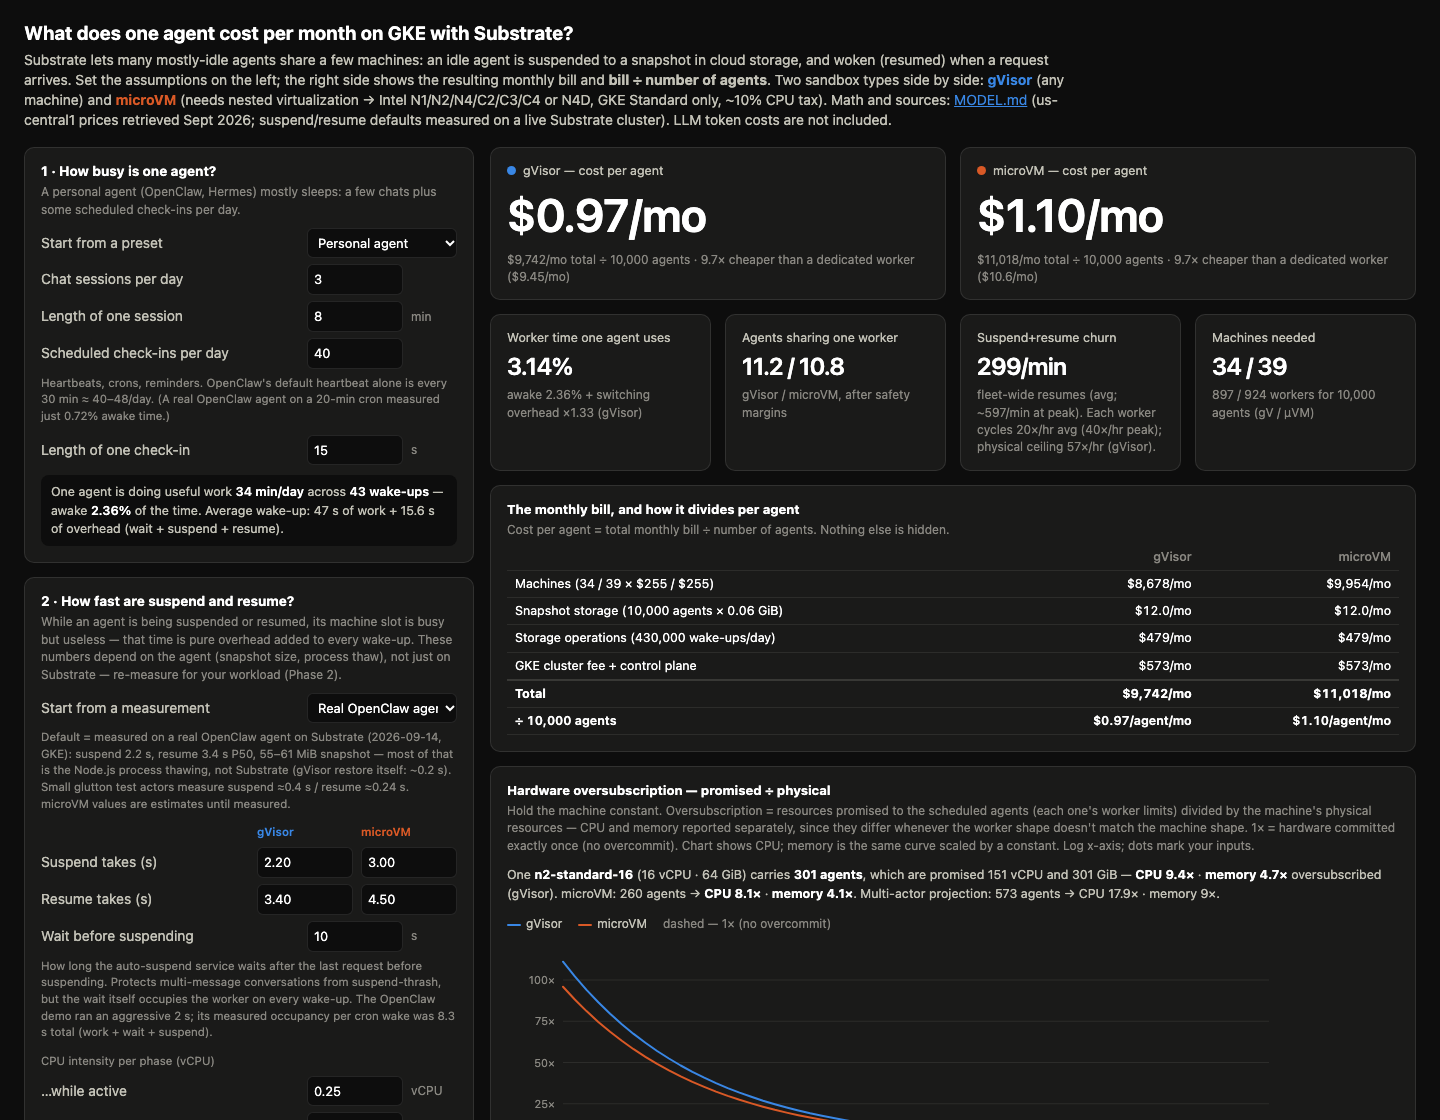
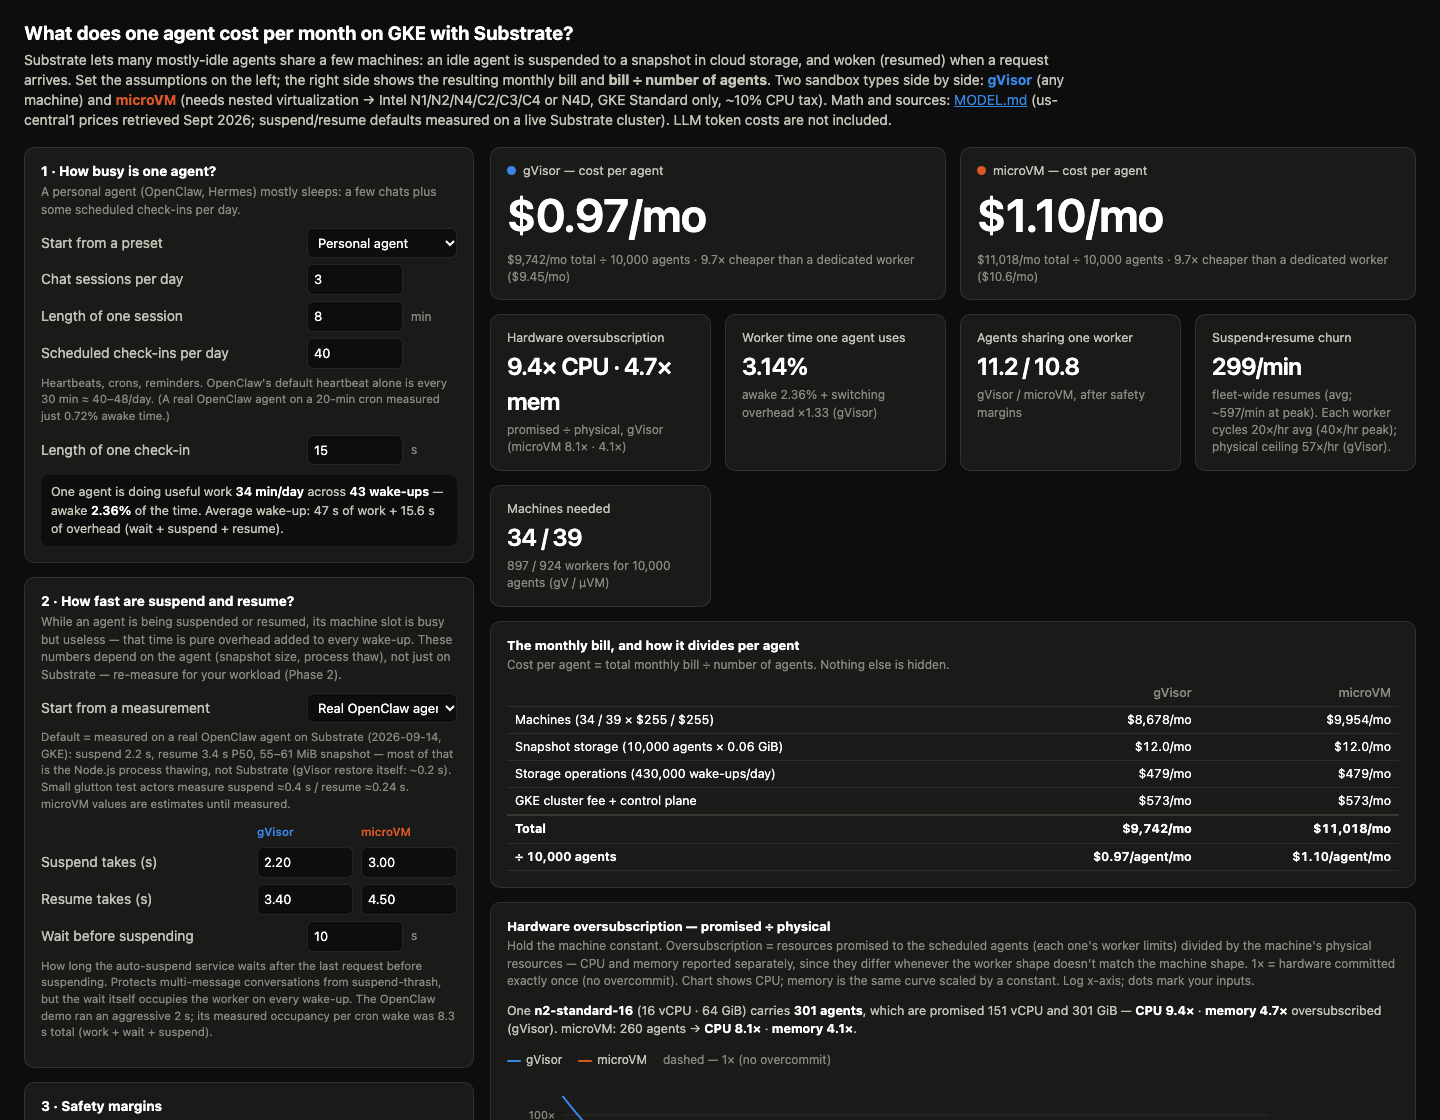
Oversubscription as a top-level number; drop all projections from calculator
- New first tile right under the cost heroes: 'Hardware oversubscription
  9.4x CPU · 4.7x mem — promised ÷ physical' (gVisor, with microVM inline),
  always for the current settings.
- Removed every theoretical-projection surface from the calculator: the
  'Roadmap upside: multi-actor workers' card, the levers bar, the headline
  sentence, the two detail rows, the scenario() projection math, and the
  now-orphaned per-phase CPU inputs. The multi-actor projection remains
  only in the Phase 2 measured-run report (clearly labeled) and MODEL.md
  §3b, which now states the calculator intentionally shows only
  current-settings numbers. README ballpark/bullets updated; calculator
  screenshot refreshed.

diff --git a/calculator.html b/calculator.html
@@ -151,11 +151,6 @@
     <div class="duo"><label>Resume takes (s)</label><input id="g_tr" type="number" min="0" step="0.05" value="3.40"><input id="m_tr" type="number" min="0" step="0.05" value="4.50"></div>
     <div class="row"><label for="tidle">Wait before suspending</label><input id="tidle" type="number" min="0" step="1" value="10"><span class="unit">s</span>
       <div class="hint">How long the auto-suspend service waits after the last request before suspending. Protects multi-message conversations from suspend-thrash, but the wait itself occupies the worker on every wake-up. The OpenClaw demo ran an aggressive 2 s; its measured occupancy per cron wake was 8.3 s total (work + wait + suspend).</div></div>
-    <div class="duo-head"><span>CPU intensity per phase (vCPU)</span><span></span><span></span></div>
-    <div class="row"><label for="cpuAct">…while active</label><input id="cpuAct" type="number" min="0.05" step="0.05" value="0.25"><span class="unit">vCPU</span></div>
-    <div class="row"><label for="cpuSus">…while suspending</label><input id="cpuSus" type="number" min="0.05" step="0.05" value="0.30"><span class="unit">vCPU</span></div>
-    <div class="row"><label for="cpuRes">…while restoring</label><input id="cpuRes" type="number" min="0.05" step="0.05" value="1.22"><span class="unit">vCPU</span>
-      <div class="hint">Restore (zstd decompress + page-in) is the most CPU-intensive thing an agent does — measured in the GKE Agent Runtime Benchmark. These weights don't change today's one-agent-per-worker cost; they power the multi-actor projection below.</div></div>
   </div>
 
   <div class="card">
@@ -233,6 +228,7 @@
     </div>
   </div>
   <div class="kpis" style="margin-top:14px">
+    <div class="tile"><div class="lbl">Hardware oversubscription</div><div class="val" id="k_oversub" style="font-size:24px">–</div><div class="sub" id="k_oversubSub"></div></div>
     <div class="tile"><div class="lbl">Worker time one agent uses</div><div class="val" id="k_duty" style="font-size:24px">–</div><div class="sub" id="k_dutySub"></div></div>
     <div class="tile"><div class="lbl">Agents sharing one worker</div><div class="val" id="k_over" style="font-size:24px">–</div><div class="sub" id="k_overSub">gVisor / microVM, after safety margins</div></div>
     <div class="tile"><div class="lbl">Suspend+resume churn</div><div class="val" id="k_churn" style="font-size:24px">–</div><div class="sub" id="k_churnSub"></div></div>
@@ -255,12 +251,6 @@
     <h3 style="margin-top:14px">Which knobs buy more agents (same machine)</h3>
     <p class="sub">Each bar re-runs the model with one knob moved to its friendlier setting, everything else as configured. gVisor scenario, agents per <span id="osMachine"></span>.</p>
     <svg id="lever_chart" width="100%" height="200" role="img" aria-label="Agents per machine by lever"></svg>
-  </div>
-
-  <div class="card">
-    <h3 style="font-size:13px;margin:0 0 2px">Roadmap upside: multi-actor workers</h3>
-    <p class="subtitle">Substrate today runs one live agent per worker slot. Multi-actor workers (the platform's roadmap lever) would pack agents by CPU instead — suspended agents hold no RAM, and each phase is charged its measured CPU (restore is the peak). A projection, not today's price.</p>
-    <p class="anchors" id="maLine"></p>
   </div>
 
   <div class="card chart-card">
@@ -453,19 +443,6 @@ function scenario(p, w) {
   const cyclesPerWorkerHr = w.acts*fleet/(workers*24);
   const ceilingPerWorkerHr = 3600/(w.liveSec/Math.max(w.acts,1e-9) + over);
 
-  // Multi-actor projection (roadmap): agents pack by fungible CPU instead
-  // of one-per-worker slots; suspended agents hold no RAM. Per-phase CPU
-  // weights from the GKE Agent Runtime Benchmark; restore is the peak.
-  const cpuAvg = (w.liveSec*num("cpuAct") + w.acts*(p.ts*num("cpuSus") + p.tr*num("cpuRes")))/86400;
-  const blendCpu = herdMode ? H*num("cpuRes") + (1-H)*cpuAvg : cpuAvg*num("peak");
-  const activeFrac = herdMode ? H + (1-H)*dEff : dEff*num("peak");
-  const maByCpu = allocCpu/Math.max(blendCpu, 1e-9);
-  const maByMem = allocMem/Math.max(p.wmem*activeFrac, 1e-9);
-  const maMemBound = maByMem < maByCpu;
-  const maPerNode = Math.max(1, Math.floor(Math.min(maByCpu, maByMem)*num("util")));
-  const maNodes = Math.ceil(fleet/maPerNode);
-  const maPerAgent = (maNodes*nodeMo + snapshotsMo + opsMo + fixedMo)/fleet;
-
   // Hardware oversubscription: resources PROMISED to the scheduled agents
   // (each agent's worker limits) versus the machine's PHYSICAL resources.
   // Slot-design-independent: multi-actor changes the agent count, not the
@@ -476,7 +453,6 @@ function scenario(p, w) {
 
   return {dEff, N, nTime, nChurn, capBinds, herdMode, peakFactor, wpn, nodeHr, nodeMo, workerHr, workers, nodes,
           agentsPerMachine, cpuOver, memOver, machineCpu: s.cpu, machineGib: s.gib,
-          maPerNode, maMemBound, maPerAgent,
           machinesMo, snapshotsMo, opsMo, fixedMo, totalMo, perAgent,
           compute: machinesMo/fleet, storage: snapshotsMo/fleet,
           opsPerAgent: opsMo/fleet, fixedPerAgent: fixedMo/fleet,
@@ -718,7 +694,6 @@ function leverRows(pG, w, G) {
     add("De-align the crons (herd 25% → 5%)", {herd: 5});
   }
   if (num("util") < 0.85) add("Run workers hotter (utilization 0.85)", {util: 0.85});
-  rows.push({label: "Multi-actor workers (roadmap projection)", val: G.maPerNode, proj: true});
   return rows;
 }
 
@@ -786,6 +761,8 @@ function recompute() {
   $("m_hero").textContent = fmt$(M.perAgent)+"/mo";
   $("m_heroSub").textContent = `${fmt$(M.totalMo)}/mo total ÷ ${fmt(fleet,0)} agents · ${fmt(M.dedicated/M.perAgent,1)}× cheaper than a dedicated worker (${fmt$(M.dedicated)}/mo)`;
 
+  $("k_oversub").textContent = `${fmt(G.cpuOver,1)}× CPU · ${fmt(G.memOver,1)}× mem`;
+  $("k_oversubSub").textContent = `promised ÷ physical, gVisor (microVM ${fmt(M.cpuOver,1)}× · ${fmt(M.memOver,1)}×)`;
   $("k_duty").textContent = pct(G.dEff);
   $("k_dutySub").textContent = `awake ${pct(w.duty)} + switching overhead ×${fmt(G.dEff/Math.max(w.duty,1e-9),2)} (gVisor)`;
   $("k_over").textContent = `${fmt(G.N,1)} / ${fmt(M.N,1)}`;
@@ -848,13 +825,6 @@ function recompute() {
     {cls:"em", cells:[`÷ ${fmt(fleet,0)} agents`, fmt$(G.perAgent)+"/agent/mo", fmt$(M.perAgent)+"/agent/mo"]},
   ]);
 
-  const maVerdict = G.maPerAgent < G.perAgent
-    ? `a further <b>${fmt(G.perAgent/Math.max(G.maPerAgent,1e-9),1)}× / ${fmt(M.perAgent/Math.max(M.maPerAgent,1e-9),1)}×</b> below today's slot-based cost.`
-    : `<b>no upside at these settings</b> — a herd member is charged the restore peak (${num("cpuRes")} vCPU), heavier than today's ${num("g_wcpu")}-vCPU slot; shrink the herd or the restore CPU to see the packing win.`;
-  $("maLine").innerHTML =
-    `gVisor: <b>${fmt$(G.maPerAgent)}/agent/mo</b> at ${fmt(G.maPerNode,0)} agents per machine${G.maMemBound ? " (memory-bound)" : ""} ·
-     microVM: <b>${fmt$(M.maPerAgent)}/agent/mo</b> at ${fmt(M.maPerNode,0)} per machine${M.maMemBound ? " (memory-bound)" : ""} — ${maVerdict}`;
-
   breakdownChart($("bd_chart"), [
     {label:"gVisor", res:G},
     {label:"microVM", res:M},
@@ -868,8 +838,7 @@ function recompute() {
     `One <b>${pG.shape}</b> (${G.machineCpu} vCPU · ${G.machineGib} GiB) carries <b>${fmt(G.agentsPerMachine,0)} agents</b>,
      which are promised ${fmt(G.agentsPerMachine*pG.wcpu,0)} vCPU and ${fmt(G.agentsPerMachine*pG.wmem,0)} GiB —
      <b>CPU ${fmt(G.cpuOver,1)}×</b> · <b>memory ${fmt(G.memOver,1)}×</b> oversubscribed (gVisor).
-     microVM: ${fmt(M.agentsPerMachine,0)} agents → <b>CPU ${fmt(M.cpuOver,1)}×</b> · <b>memory ${fmt(M.memOver,1)}×</b>.
-     Multi-actor projection: ${fmt(G.maPerNode,0)} agents → CPU ${fmt(G.maPerNode*pG.wcpu/G.machineCpu,1)}× · memory ${fmt(G.maPerNode*pG.wmem/G.machineGib,1)}×.`;
+     microVM: ${fmt(M.agentsPerMachine,0)} agents → <b>CPU ${fmt(M.cpuOver,1)}×</b> · <b>memory ${fmt(M.memOver,1)}×</b>.`;
   lineChart($("os_chart"), {
     xs:sd.xs, xLog:true, xTicks:[0.3,1,3,10,30], curX:sd.cur,
     xFmt:v=>fmt(v,1)+"%", ttSuffix:" of the day awake · CPU oversub",
@@ -918,8 +887,6 @@ function recompute() {
     {cells:["Memory oversubscription (promised ÷ physical)", fmt(G.memOver,1)+"×", fmt(M.memOver,1)+"×"]},
     {cells:["Workers needed", fmt(G.workers,0), fmt(M.workers,0)]},
     {cells:["Machines needed", fmt(G.nodes,0), fmt(M.nodes,0)]},
-    {cells:["Multi-actor agents/machine (projection)", fmt(G.maPerNode,0)+(G.maMemBound?" (mem-bound)":""), fmt(M.maPerNode,0)+(M.maMemBound?" (mem-bound)":"")]},
-    {cells:["Multi-actor $/agent/mo (projection)", fmt$(G.maPerAgent), fmt$(M.maPerAgent)]},
     {cells:["Fleet resumes per minute (avg)", fmt(G.resumesPerSec*60,1), fmt(M.resumesPerSec*60,1)]},
     {cells:["Cycles per worker per hour", fmt(G.cyclesPerWorkerHr,1), fmt(M.cyclesPerWorkerHr,1)]},
     {cells:["Worker cycle ceiling per hour", fmt(G.ceilingPerWorkerHr,0), fmt(M.ceilingPerWorkerHr,0)]},

diff --git a/README.md b/README.md
@@ -36,27 +36,21 @@ What the calculator shows:
   (machines + snapshots + storage ops + cluster fee), and cost per agent =
   bill ÷ agents. Suspend/resume churn rates against each worker's physical
   ceiling, with an optional churn cap.
-- **Hardware oversubscription**: promised resources ÷ physical machine,
-  reported for CPU and memory separately (they differ whenever the worker
-  shape doesn't match the machine shape), with the ratio-vs-duty-cycle
-  curve and a levers chart showing how many MORE agents each knob buys.
+- **Hardware oversubscription**, top-level: promised resources ÷ physical
+  machine, CPU and memory separately (they differ whenever the worker shape
+  doesn't match the machine shape), plus the ratio-vs-duty-cycle curve and
+  a levers chart showing how many MORE agents each knob buys.
 - **Two peak lenses** (pick one): busiest-hour multiplier for
   timezone-driven fleets, or a **herd %** for cron-aligned fleets — the herd
   is charged full occupancy during its burst.
-- **Per-phase CPU weights** (active 0.25 / suspend 0.30 / **restore 1.22
-  vCPU** — restore is the most expensive thing an agent does) powering a
-  **multi-actor workers projection**: what the same fleet costs when agents
-  pack by CPU instead of one-per-worker slots (the platform's roadmap
-  lever), memory-bound-checked so it can't overclaim past RAM.
 - Suspend/resume defaults are **measured** (live cluster run + a real
   OpenClaw deployment), with a small-test-actor preset for the optimistic
   end. Sources and numbers: [`MODEL.md`](MODEL.md) appendices.
 
 Ballpark with defaults (10k agents, measured switch times, 10s idle wait,
 3y CUD, both scenarios on n2-standard-16): **≈$1.0/agent/month gVisor,
-≈$1.1 microVM**, versus ~$7–15 for a dedicated worker or VPS; the
-multi-actor projection lands well under $1. LLM tokens are out of scope
-(and typically dominate).
+≈$1.1 microVM**, versus ~$7–15 for a dedicated worker or VPS. LLM tokens
+are out of scope (and typically dominate).
 
 ## Phase 2: measure it
 

diff --git a/MODEL.md b/MODEL.md
@@ -175,8 +175,9 @@ agents/node  = floor( U · min( cpu_alloc / cpu_weighted,
 where `active_fraction` is `H + (1−H)·d_eff` (herd) or `d_eff·P`
 (multiplier) — suspended agents hold no RAM. For microVM, `cpu_alloc`
 already carries the nested-virt CPU tax, exactly as in slot packing.
-The tool reports this as the **multi-actor upside**, clearly labeled as a
-projection, never as today's price.
+The Phase 2 measured-run report prints this as a clearly-labeled
+projection line; the calculator intentionally does not (it shows only
+current-settings numbers).
 
 ## 4. Worker cost
 
